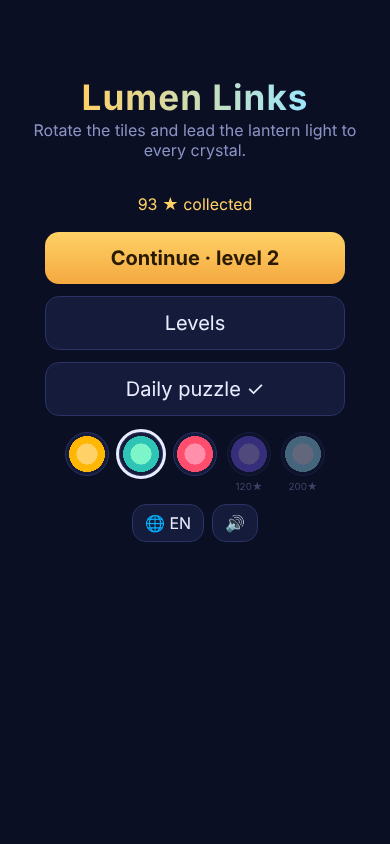
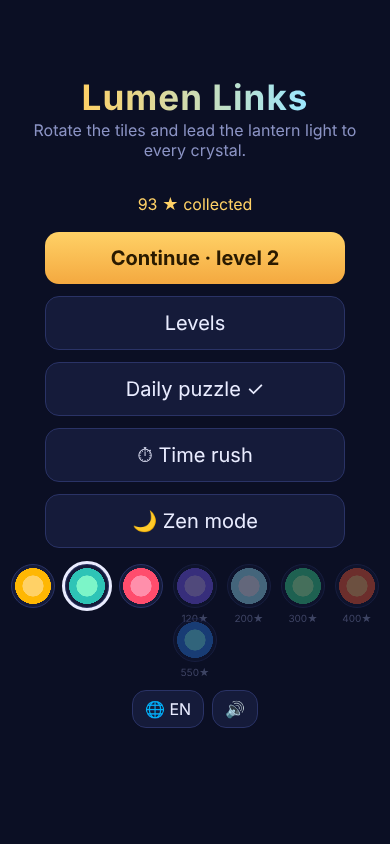
Lumen Links v1.2: mod Zen (puzzle-uri fără sfârșit), palete Jar și Ocean, mesaj Noutăți, meniu compact pe ecrane mici
Claude-Session: https://claude.ai/code/session_01YQDvpo5HLTzhiWK1DvjXnf

diff --git a/lumen/index.html b/lumen/index.html
@@ -21,6 +21,8 @@ button:disabled{opacity:.4}
 #menu h1{margin:9vh 0 2px;font-size:clamp(34px,9vw,54px);letter-spacing:1px;background:linear-gradient(90deg,#ffd166,#9be7ff);-webkit-background-clip:text;background-clip:text;color:transparent}
 #menu .sub{color:var(--dim);margin:0 16px 4vh;text-align:center}
 #menuStars{color:var(--acc);margin-bottom:12px}
+#menu{overflow-y:auto}
+@media (max-height:720px){#menu h1{margin-top:4vh}#menu .sub{margin-bottom:2vh}#menu button.big{padding:10px 0;margin:4px 0;font-size:18px}#menu .row{margin-top:20px!important}}
 .row{display:flex;gap:8px;margin-top:14px}
 #hud{width:100%;display:flex;align-items:center;justify-content:space-between;padding:10px 10px 4px;gap:6px}
 #hud .mid{text-align:center;flex:1}
@@ -55,6 +57,7 @@ button:disabled{opacity:.4}
     <button class="big" id="bLevels" data-i="levels"></button>
     <button class="big" id="bDaily"></button>
     <button class="big" id="bRush"></button>
+    <button class="big" id="bZen"></button>
     <div id="pals"></div>
     <div class="row" style="margin-top:28px">
       <button class="ico" id="bLang"></button>
@@ -82,9 +85,9 @@ button:disabled{opacity:.4}
 "use strict";
 // ---------- Texte ----------
 const T = {
-  en: { tag: "Rotate the tiles and lead the lantern light to every crystal.", play: "Play", cont: "Continue · level {n}", levels: "Levels", daily: "Daily puzzle", dailyDone: "Daily puzzle ✓", level: "Level {n}", dailyT: "Daily {d}", moves: "Moves: {m} · par {p}", solved: "Solved!", next: "Next level", menu: "Menu", again: "Play again", hint: "Hint", noHints: "No hints left. Solve a level to earn one.", watch: "Watch ad: +3 hints", gotHints: "+3 hints", locked: "Unlock with {n} ★", lang: "EN", palette: "Colors", total: "{n} ★ collected", dailyBonus: "Daily bonus: +2 hints", tut: "Tap a tile to rotate it. Light every crystal.", rush: "Time rush", rushT: "Rush · {n} solved", time: "Time {s}s · par {p}", rushEnd: "Time's up!", rushScore: "Puzzles solved: {n}", rushBest: "Best: {n}", newBest: "New record!", streak: "Streak: {n} days" },
-  ro: { tag: "Rotește piesele și du lumina felinarului la fiecare cristal.", play: "Joacă", cont: "Continuă · nivelul {n}", levels: "Niveluri", daily: "Puzzle-ul zilei", dailyDone: "Puzzle-ul zilei ✓", level: "Nivelul {n}", dailyT: "Ziua {d}", moves: "Mutări: {m} · țintă {p}", solved: "Rezolvat!", next: "Nivelul următor", menu: "Meniu", again: "Încă o dată", hint: "Indiciu", noHints: "Nu mai ai indicii. Rezolvă un nivel ca să primești unul.", watch: "Reclamă: +3 indicii", gotHints: "+3 indicii", locked: "Se deblochează la {n} ★", lang: "RO", palette: "Culori", total: "{n} ★ adunate", dailyBonus: "Bonusul zilei: +2 indicii", tut: "Atinge o piesă ca s-o rotești. Aprinde toate cristalele.", rush: "Contra cronometru", rushT: "Cronometru · {n} rezolvate", time: "Timp {s}s · țintă {p}", rushEnd: "Timpul a expirat!", rushScore: "Puzzle-uri rezolvate: {n}", rushBest: "Record: {n}", newBest: "Record nou!", streak: "Serie: {n} zile" },
-  ru: { tag: "Поворачивайте плитки и ведите свет фонаря к каждому кристаллу.", play: "Играть", cont: "Продолжить · уровень {n}", levels: "Уровни", daily: "Головоломка дня", dailyDone: "Головоломка дня ✓", level: "Уровень {n}", dailyT: "День {d}", moves: "Ходы: {m} · цель {p}", solved: "Готово!", next: "Следующий уровень", menu: "Меню", again: "Ещё раз", hint: "Подсказка", noHints: "Подсказок нет. Пройдите уровень, чтобы получить одну.", watch: "Реклама: +3 подсказки", gotHints: "+3 подсказки", locked: "Открывается за {n} ★", lang: "RU", palette: "Цвета", total: "Собрано {n} ★", dailyBonus: "Бонус дня: +2 подсказки", tut: "Нажмите на плитку, чтобы повернуть. Зажгите все кристаллы.", rush: "На время", rushT: "На время · решено {n}", time: "Время {s}с · цель {p}", rushEnd: "Время вышло!", rushScore: "Решено головоломок: {n}", rushBest: "Рекорд: {n}", newBest: "Новый рекорд!", streak: "Серия: {n} дн." },
+  en: { tag: "Rotate the tiles and lead the lantern light to every crystal.", play: "Play", cont: "Continue · level {n}", levels: "Levels", daily: "Daily puzzle", dailyDone: "Daily puzzle ✓", level: "Level {n}", dailyT: "Daily {d}", moves: "Moves: {m} · par {p}", solved: "Solved!", next: "Next level", menu: "Menu", again: "Play again", hint: "Hint", noHints: "No hints left. Solve a level to earn one.", watch: "Watch ad: +3 hints", gotHints: "+3 hints", locked: "Unlock with {n} ★", lang: "EN", palette: "Colors", total: "{n} ★ collected", dailyBonus: "Daily bonus: +2 hints", tut: "Tap a tile to rotate it. Light every crystal.", rush: "Time rush", rushT: "Rush · {n} solved", time: "Time {s}s · par {p}", rushEnd: "Time's up!", rushScore: "Puzzles solved: {n}", rushBest: "Best: {n}", newBest: "New record!", streak: "Streak: {n} days", zen: "Zen mode", zenT: "Zen · {n} solved", zenS: "No timer, no moves count · 5 solved = +1 hint", zenHint: "Zen: +1 hint", whatsNew: "New in v{v}: Zen mode and 2 new color palettes" },
+  ro: { tag: "Rotește piesele și du lumina felinarului la fiecare cristal.", play: "Joacă", cont: "Continuă · nivelul {n}", levels: "Niveluri", daily: "Puzzle-ul zilei", dailyDone: "Puzzle-ul zilei ✓", level: "Nivelul {n}", dailyT: "Ziua {d}", moves: "Mutări: {m} · țintă {p}", solved: "Rezolvat!", next: "Nivelul următor", menu: "Meniu", again: "Încă o dată", hint: "Indiciu", noHints: "Nu mai ai indicii. Rezolvă un nivel ca să primești unul.", watch: "Reclamă: +3 indicii", gotHints: "+3 indicii", locked: "Se deblochează la {n} ★", lang: "RO", palette: "Culori", total: "{n} ★ adunate", dailyBonus: "Bonusul zilei: +2 indicii", tut: "Atinge o piesă ca s-o rotești. Aprinde toate cristalele.", rush: "Contra cronometru", rushT: "Cronometru · {n} rezolvate", time: "Timp {s}s · țintă {p}", rushEnd: "Timpul a expirat!", rushScore: "Puzzle-uri rezolvate: {n}", rushBest: "Record: {n}", newBest: "Record nou!", streak: "Serie: {n} zile", zen: "Mod Zen", zenT: "Zen · {n} rezolvate", zenS: "Fără cronometru, fără mutări numărate · 5 rezolvate = +1 indiciu", zenHint: "Zen: +1 indiciu", whatsNew: "Noutăți v{v}: modul Zen și 2 palete noi de culori" },
+  ru: { tag: "Поворачивайте плитки и ведите свет фонаря к каждому кристаллу.", play: "Играть", cont: "Продолжить · уровень {n}", levels: "Уровни", daily: "Головоломка дня", dailyDone: "Головоломка дня ✓", level: "Уровень {n}", dailyT: "День {d}", moves: "Ходы: {m} · цель {p}", solved: "Готово!", next: "Следующий уровень", menu: "Меню", again: "Ещё раз", hint: "Подсказка", noHints: "Подсказок нет. Пройдите уровень, чтобы получить одну.", watch: "Реклама: +3 подсказки", gotHints: "+3 подсказки", locked: "Открывается за {n} ★", lang: "RU", palette: "Цвета", total: "Собрано {n} ★", dailyBonus: "Бонус дня: +2 подсказки", tut: "Нажмите на плитку, чтобы повернуть. Зажгите все кристаллы.", rush: "На время", rushT: "На время · решено {n}", time: "Время {s}с · цель {p}", rushEnd: "Время вышло!", rushScore: "Решено головоломок: {n}", rushBest: "Рекорд: {n}", newBest: "Новый рекорд!", streak: "Серия: {n} дн.", zen: "Режим дзен", zenT: "Дзен · решено {n}", zenS: "Без таймера и подсчёта ходов · 5 решённых = +1 подсказка", zenHint: "Дзен: +1 подсказка", whatsNew: "Новое в v{v}: режим дзен и 2 новые палитры" },
 };
 const LANGS = ["en", "ro", "ru"];
 const PLATFORM = window.GAME_PLATFORM || "web";
@@ -96,12 +99,14 @@ function detectLang() {
 const t = (k, v = {}) => (T[S.lang][k] || T.en[k]).replace(/\{(\w+)\}/g, (_, x) => v[x]);
 
 // ---------- Salvare ----------
-const KEY = "lumen-links-v1";
-let S = { lang: detectLang(), sound: true, level: 1, stars: {}, daily: {}, hints: 3, pal: 0, tut: false, rushBest: 0, streak: { n: 0, last: "" } };
+const KEY = "lumen-links-v1", VERSION = "1.2";
+let S = { lang: detectLang(), sound: true, level: 1, stars: {}, daily: {}, hints: 3, pal: 0, tut: false, rushBest: 0, streak: { n: 0, last: "" }, zen: 0, seen: null };
 // Store = localStorage; pe CrazyGames se înlocuiește cu Data Module din SDK (salvare legată de cont)
 let Store = null; try { Store = window.localStorage; } catch (e) {}
 function load() { try { const d = JSON.parse(Store.getItem(KEY)); if (d) S = Object.assign(S, d); } catch (e) {} }
 load();
+// mesaj „Noutăți” doar pentru jucătorii care aveau deja o salvare
+const showNews = S.seen !== VERSION && (S.seen !== null || S.level > 1 || S.tut); S.seen = VERSION;
 let muted = false; // mut cerut de platformă (CrazyGames)
 function save() { try { const o = Object.assign({}, S); delete o.soundWas; Store.setItem(KEY, JSON.stringify(o)); } catch (e) {} }
 const totalStars = () => Object.values(S.stars).reduce((a, b) => a + b, 0) + Object.keys(S.daily).length * 3;
@@ -114,6 +119,8 @@ const PALS = [
   { need: 120, lit: "#b8a1ff", glow: "#7b5cff", crystal: "#7cf5c8" },
   { need: 200, lit: "#e9ecff", glow: "#9be7ff", crystal: "#ffd166" },
   { need: 300, lit: "#9dffb0", glow: "#3ddc97", crystal: "#c77dff" }, // Aurora (v1.1)
+  { need: 400, lit: "#ffb26b", glow: "#ff5e3a", crystal: "#ffe9a8" }, // Jar (v1.2)
+  { need: 550, lit: "#6be4ff", glow: "#2f80ed", crystal: "#b8f5d0" }, // Ocean (v1.2)
 ];
 const pal = () => PALS[S.pal] || PALS[0];
 
@@ -176,6 +183,8 @@ const yesterday = () => { const d = new Date(); d.setDate(d.getDate() - 1); retu
 // Contra cronometru (v1.1): 120 s, puzzle-uri 4x4 apoi 5x5 de la al 4-lea; fiecare rezolvare dă +10 s
 const RUSH_TIME = 120, RUSH_BONUS = 10;
 const rushSize = k => k < 3 ? 4 : 5;
+// Mod Zen (v1.2): puzzle-uri fără sfârșit, fără cronometru; mărimea crește încet; la 5 rezolvate +1 indiciu
+const zenSize = k => k < 4 ? 5 : k < 12 ? 6 : 7;
 const dailySeed = d => d.split("-").reduce((a, x) => a * 100 + +x, 0) ^ 0x1234567;
 
 // ---------- Sunet (WebAudio, fără fișiere) ----------
@@ -276,6 +285,15 @@ function startRush() {
   G = { mode: "rush", k: 0, end: performance.now() + RUSH_TIME * 1000, seed: (Math.random() * 1e9) | 0, hintsUsed: 0 };
   nextRush(); show("game"); renderHud();
 }
+function startZen() {
+  G = { mode: "zen", k: 0, seed: (Math.random() * 1e9) | 0, hintsUsed: 0 };
+  nextZen(); show("game"); renderHud(); toast(t("zenS"), 2600);
+}
+function nextZen() {
+  const s = zenSize(G.k);
+  Object.assign(G, { lv: genLevel(G.seed + G.k * 104729, s, s), moves: 0, hist: [], anim: {}, done: false });
+  G.litPrev = litSet(G.lv).filter(Boolean).length; resize();
+}
 function nextRush() {
   const s = rushSize(G.k);
   Object.assign(G, { lv: genLevel(G.seed + G.k * 7919, s, s), moves: 0, hist: [], anim: {}, done: false });
@@ -338,6 +356,12 @@ function win() {
     G.k++; G.end += RUSH_BONUS * 1000; sfx.win(); toast("+" + RUSH_BONUS + "s", 900);
     nextRush(); renderHud(); return;
   }
+  if (G.mode === "zen") { // după o pauză scurtă, următorul puzzle
+    G.done = true; G.k++; S.zen = (S.zen || 0) + 1; sfx.win();
+    if (S.zen % 5 === 0) { S.hints = Math.min(S.hints + 1, 99); toast(t("zenHint"), 1200); }
+    S.tut = true; save(); renderHud();
+    setTimeout(() => { if (G && G.mode === "zen" && G.done) { nextZen(); renderHud(); } }, 700); return;
+  }
   G.done = true; sfx.win(); if (Ads.a && Ads.a.happy) Ads.a.happy();
   let st = 3, title;
   if (G.mode === "level") {
@@ -372,8 +396,8 @@ function toast(msg, ms = 2200) { const e = $("toast"); e.textContent = msg; e.st
 // ---------- UI ----------
 function renderHud() {
   if (!G) return;
-  $("hTitle").textContent = G.mode === "level" ? t("level", { n: G.n }) : G.mode === "rush" ? t("rushT", { n: G.k }) : t("dailyT", { d: G.d });
-  $("hMoves").textContent = G.mode === "rush" ? t("time", { s: rushLeft(), p: G.lv.par }) : t("moves", { m: G.moves, p: G.lv.par });
+  $("hTitle").textContent = G.mode === "level" ? t("level", { n: G.n }) : G.mode === "rush" ? t("rushT", { n: G.k }) : G.mode === "zen" ? t("zenT", { n: G.k }) : t("dailyT", { d: G.d });
+  $("hMoves").textContent = G.mode === "rush" ? t("time", { s: rushLeft(), p: G.lv.par }) : G.mode === "zen" ? "∞ · " + (S.zen || 0) + " ✦" : t("moves", { m: G.moves, p: G.lv.par });
   $("bHint").textContent = "💡" + S.hints;
   $("bUndo").disabled = !G.hist.length;
 }
@@ -383,6 +407,7 @@ function renderMenu() {
   const sk = S.streak && (S.streak.last === today() || S.streak.last === yesterday()) ? S.streak.n : 0;
   $("bDaily").textContent = (S.daily[today()] ? t("dailyDone") : t("daily")) + (sk > 1 ? " 🔥" + sk : "");
   $("bRush").textContent = "⏱ " + t("rush") + (S.rushBest ? " · " + S.rushBest : "");
+  $("bZen").textContent = "🌙 " + t("zen") + (S.zen ? " · " + S.zen : "");
   $("bLang").textContent = "🌐 " + t("lang");
   $("bSound").textContent = S.sound ? "🔊" : "🔇";
   const ts = totalStars(); $("menuStars").textContent = t("total", { n: ts });
@@ -401,13 +426,14 @@ $("bPlay").onclick = () => startLevel(S.level);
 $("bLevels").onclick = () => { renderLevels(); show("levels"); };
 $("bDaily").onclick = startDaily;
 $("bRush").onclick = startRush;
+$("bZen").onclick = startZen;
 $("bLang").onclick = () => { S.lang = LANGS[(LANGS.indexOf(S.lang) + 1) % 3]; save(); renderMenu(); };
 $("bSound").onclick = () => { S.sound = !S.sound; save(); renderMenu(); };
 document.querySelectorAll("[data-back]").forEach(b => b.onclick = toMenu);
 $("bBack").onclick = toMenu;
 $("bUndo").onclick = undo;
 $("bHint").onclick = hint;
-$("bRestart").onclick = () => G && (G.mode === "level" ? startLevel(G.n) : G.mode === "rush" ? startRush() : startDaily());
+$("bRestart").onclick = () => G && (G.mode === "level" ? startLevel(G.n) : G.mode === "rush" ? startRush() : G.mode === "zen" ? startZen() : startDaily());
 addEventListener("keydown", e => { if (e.key === "z" && (e.ctrlKey || e.metaKey)) undo(); if (e.key === "Escape") { closeOverlay(); toMenu(); } });
 
 // ---------- Desen ----------
@@ -470,7 +496,8 @@ function draw(now) {
     ctx.restore();
   }
 }
-renderMenu();
+renderMenu(); save();
+if (showNews) setTimeout(() => toast(t("whatsNew", { v: VERSION }), 3000), 500);
 requestAnimationFrame(draw);
 Ads.init();
 </script>

diff --git a/lumen/tests/v12.js b/lumen/tests/v12.js
@@ -1,0 +1,61 @@
+// Teste Lumen Links v1.2 (mod Zen, palete Jar și Ocean, mesaj Noutăți): node lumen/tests/v12.js
+const { chromium } = require('playwright');
+const path = require('path');
+const URL = 'file://' + path.resolve(__dirname, '..', 'index.html');
+let fails = 0;
+const ok = (c, m) => { console.log((c ? 'PASS ' : 'FAIL ') + m); if (!c) fails++; };
+async function solveByClicks(p) {
+  const clicks = await p.evaluate(() => {
+    const r = document.getElementById('board').getBoundingClientRect(), out = [];
+    G.lv.tiles.forEach((tl, i) => { const k = minTurns(tl, G.lv.sol[i]);
+      const x = r.left + geo.ox + (i % G.lv.W + 0.5) * geo.s, y = r.top + geo.oy + (((i / G.lv.W) | 0) + 0.5) * geo.s;
+      for (let j = 0; j < k; j++) out.push([x, y]); });
+    return out;
+  });
+  for (const [x, y] of clicks) await p.mouse.click(x, y);
+}
+(async () => {
+  const b = await chromium.launch(process.env.CHROME_PATH ? { executablePath: process.env.CHROME_PATH } : {});
+  const ctx = await b.newContext({ viewport: { width: 390, height: 844 }, locale: 'ro-RO' });
+  const p = await ctx.newPage(); const errs = [];
+  p.on('pageerror', e => errs.push(e.message)); p.on('console', m => m.type() === 'error' && errs.push(m.text()));
+  await p.goto(URL); await p.waitForTimeout(200);
+  ok(await p.evaluate(() => VERSION === '1.2' && ['en', 'ro', 'ru'].every(l => ['zen', 'zenT', 'zenS', 'zenHint', 'whatsNew'].every(k => T[l][k]))), 'v1.2: texte noi EN/RO/RU');
+  ok(await p.evaluate(() => document.getElementById('toast').style.opacity !== '1'), 'v1.2: jucător nou fără mesaj Noutăți');
+  ok((await p.$eval('#bZen', e => e.textContent)).includes('Mod Zen'), 'v1.2: buton Mod Zen în meniu');
+  await p.click('#bZen');
+  ok(await p.evaluate(() => G.mode === 'zen' && G.k === 0 && G.lv.W === 5), 'v1.2: Zen pornește cu puzzle 5x5');
+  ok((await p.$eval('#hTitle', e => e.textContent)).includes('Zen'), 'v1.2: HUD Zen');
+  await p.evaluate(() => { S.hints = 0; S.zen = 4; });
+  await solveByClicks(p);
+  ok(await p.evaluate(() => G.k === 1 && S.zen === 5 && S.hints === 1), 'v1.2: rezolvare Zen (+1 indiciu la 5)');
+  await p.waitForTimeout(900);
+  ok(await p.evaluate(() => G.mode === 'zen' && !G.done && !isSolved(G.lv) && !document.getElementById('overlay').classList.contains('on')), 'v1.2: următorul puzzle Zen vine singur');
+  await p.evaluate(() => { G.k = 12; nextZen(); });
+  ok(await p.evaluate(() => G.lv.W === 7), 'v1.2: Zen crește la 7x7');
+  ok(await p.evaluate(() => { let bad = 0; for (let k = 0; k < 30; k++) { const s = zenSize(k), lv = genLevel(999 + k * 104729, s, s); if (isSolved(lv)) bad++; lv.tiles.forEach((tl, i) => tl.rot = (tl.rot + minTurns(tl, lv.sol[i])) & 3); if (!isSolved(lv)) bad++; } return bad === 0; }), 'v1.2: 30 puzzle-uri Zen rezolvabile');
+  await p.click('#bRestart');
+  ok(await p.evaluate(() => G.mode === 'zen' && G.k === 0), 'v1.2: restart Zen');
+  await p.click('#bBack');
+  ok((await p.$eval('#bZen', e => e.textContent)).includes('5'), 'v1.2: meniul arată totalul Zen');
+  // palete noi
+  ok(await p.evaluate(() => PALS.length === 8 && PALS[6].need === 400 && PALS[7].need === 550), 'v1.2: palete Jar (400 ★) și Ocean (550 ★)');
+  await p.evaluate(() => { for (let n = 1; n <= 190; n++) S.stars[n] = 3; renderMenu(); });
+  await p.click('#pals button[data-p="7"]');
+  ok(await p.evaluate(() => S.pal === 7), 'v1.2: paleta Ocean se poate alege');
+  // reîncărcare: Zen păstrat
+  await p.reload(); await p.waitForTimeout(200);
+  ok(await p.evaluate(() => S.zen === 5 && S.pal === 7 && S.seen === '1.2'), 'v1.2: salvare păstrată');
+  // salvare v1.1 → mesaj Noutăți EN
+  const ctx2 = await b.newContext({ viewport: { width: 360, height: 640 }, locale: 'en-US' });
+  const p2 = await ctx2.newPage();
+  await p2.addInitScript(() => { if (!sessionStorage.m) { sessionStorage.m = 1;
+    localStorage.setItem('lumen-links-v1', JSON.stringify({ lang: 'en', sound: true, level: 7, stars: { 1: 3 }, daily: {}, hints: 2, pal: 0, tut: true, rushBest: 4, streak: { n: 1, last: '' } })); } });
+  await p2.goto(URL); await p2.waitForTimeout(900);
+  ok(await p2.evaluate(() => document.getElementById('toast').textContent.includes('Zen mode') && S.level === 7 && S.rushBest === 4 && S.zen === 0), 'v1.2: migrare v1.1 + mesaj Noutăți');
+  ok(await p2.evaluate(() => { const r = document.getElementById('bSound').getBoundingClientRect(); return r.bottom <= innerHeight; }), 'v1.2: meniul încape pe ecran 360x640');
+  ok(errs.length === 0, 'v1.2: fără erori JS ' + errs.join('|'));
+  await b.close();
+  console.log(fails ? `\n${fails} TESTE PICATE` : '\nTOATE TESTELE AU TRECUT');
+  process.exit(fails ? 1 : 0);
+})();

diff --git a/lumen/tests/v11.js b/lumen/tests/v11.js
@@ -58,7 +58,7 @@ async function solveByClicks(p) {
   await p.reload(); await p.waitForTimeout(200);
   ok(await p.evaluate(() => S.rushBest === 3 && S.streak.n === 1), 'v1.1: record și serie păstrate după reîncărcare');
   // paleta Aurora
-  ok(await p.evaluate(() => PALS.length === 6 && PALS[5].need === 300), 'v1.1: a 6-a paletă (Aurora) la 300 ★');
+  ok(await p.evaluate(() => PALS.length >= 6 && PALS[5].need === 300), 'v1.1: a 6-a paletă (Aurora) la 300 ★');
   await p.evaluate(() => { for (let i = 1; i <= 100; i++) S.stars[i] = 3; renderMenu(); });
   await p.click('#pals button[data-p="5"]');
   ok(await p.evaluate(() => S.pal === 5), 'v1.1: Aurora se poate alege');
